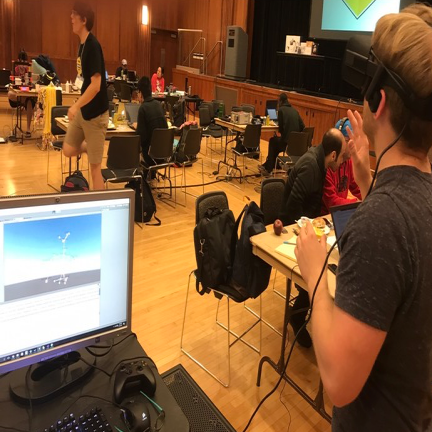
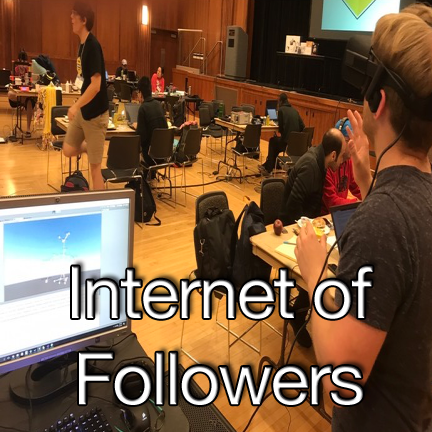
Add project titles

Changed region(s): [[0.1806, 0.7824, 0.8426, 0.963], [0.1505, 0.6019, 0.6921, 0.7523], [0.7222, 0.6019, 0.8727, 0.7523]]

diff --git a/projects.html b/projects.html
@@ -268,7 +268,7 @@
       </div>
       <div class="modal-body">
         <center>
-          <img src="images/samplingBiasApp.png" class="img-fluid img-centered img-portfolio img-rounded" alt="">
+          <img src="images/samplingBiasAppBlank.png" class="img-fluid img-centered img-portfolio img-rounded" alt="">
 
 
           <p>Many students tend to have a difficult time understanding and getting excited about the power of statistics, particularly when it comes to the fundamental concepts in statistics like sampling theory and the impact of bias. This research is to see if using an interactive statistics learning environment will help students engage with the content, explore complex statistical concepts, and better understand statistics as a whole. </p>
